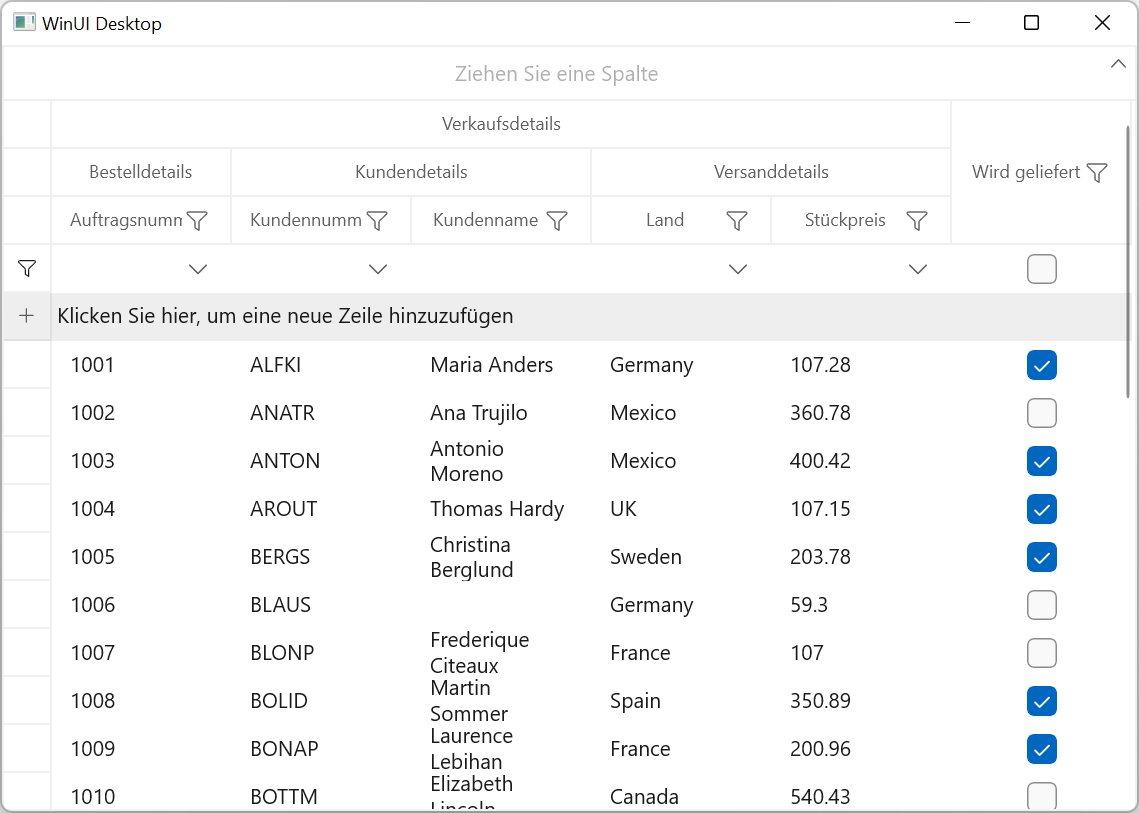
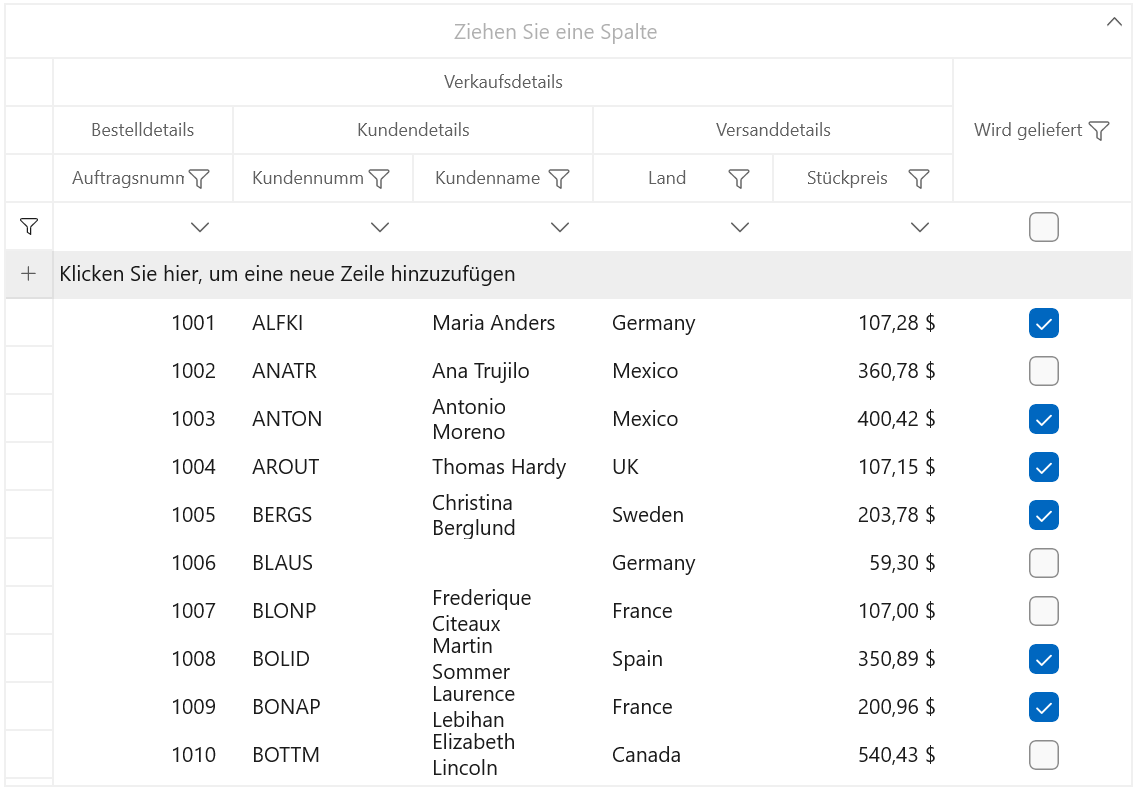
WINUI-2387 - Localization UG review concerns changes committed.

diff --git a/MainWindow.xaml b/MainWindow.xaml
@@ -17,6 +17,9 @@
         <Grid.DataContext>
             <local:ViewModel/>
         </Grid.DataContext>
+        <Grid.Resources>
+            <local:ViewModel x:Key="viewModel"/>
+        </Grid.Resources>
 
         <dataGrid:SfDataGrid x:Name="datagrid" 
                          AutoGenerateColumns="False"
@@ -34,11 +37,11 @@
                          SelectionMode="Single"
                          ItemsSource="{Binding Orders}">
             <dataGrid:SfDataGrid.Columns>
-                <dataGrid:GridTextColumn HeaderText="Auftragsnummer" MappingName="OrderID" />
+                <dataGrid:GridNumericColumn HeaderText="Auftragsnummer" MappingName="OrderID" />
                 <dataGrid:GridTextColumn HeaderText="Kundennummer" MappingName="CustomerID" ImmediateUpdateColumnFilter="True" />
                 <dataGrid:GridTextColumn HeaderText="Kundenname" MappingName="CustomerName" />
                 <dataGrid:GridTextColumn HeaderText="Land" MappingName="Country" />
-                <dataGrid:GridTextColumn HeaderText="Stückpreis" MappingName="UnitPrice" />
+                <dataGrid:GridNumericColumn HeaderText="Stückpreis" MappingName="UnitPrice" NumberFormatter="{Binding SystemCurrency,Source={StaticResource viewModel}}"/>
                 <dataGrid:GridCheckBoxColumn MappingName="IsDelivered" HeaderText="Wird geliefert" />
             </dataGrid:SfDataGrid.Columns>
 

diff --git a/ViewModel/ViewModel.cs b/ViewModel/ViewModel.cs
@@ -21,16 +21,9 @@ namespace Localization
             get { return _orders; }
             set { _orders = value; }
         }
-        private ObservableCollection<OrderInfo> _orders1;
-        public ObservableCollection<OrderInfo> Orders1
-        {
-            get { return _orders1; }
-            set { _orders1 = value; }
-        }
         public ViewModel()
         {
             _orders = new ObservableCollection<OrderInfo>();
-            _orders1 = new ObservableCollection<OrderInfo>();
             this.GenerateOrders();
         }
 
@@ -68,44 +61,6 @@ namespace Localization
         {
             if (PropertyChanged != null)
                 PropertyChanged(this, new PropertyChangedEventArgs(PropertyName));
-        }
-    }
-
-    public class TableSummaryRowConverter : IValueConverter
-    {
-        public object Convert(object value, Type targetType, object parameter, string language)
-        {
-
-            var data = value != null ? value as SummaryRecordEntry : null;
-            if (data != null)
-            {
-                SfDataGrid dataGrid = (SfDataGrid)parameter;
-                var unitPrice = SummaryCreator.GetSummaryDisplayText(data, "UnitPrice", dataGrid.View);
-                var count = SummaryCreator.GetSummaryDisplayText(data, "OrderID", dataGrid.View);
-
-                return "Total Price : " + unitPrice.ToString() + " for " + count.ToString() + " Products ";
-            }
-
-            return null;
-        }
-
-        public object ConvertBack(object value, Type targetType, object parameter, string language)
-        {
-            throw new NotImplementedException();
-        }
-    }
-    public class UnitpriceConverter : IValueConverter
-    {
-        public object Convert(object value, Type targetType, object parameter, string language)
-        {
-            //var unitprice = (int)value;
-
-            return value;
-        }
-
-        public object ConvertBack(object value, Type targetType, object parameter, string language)
-        {
-            throw new NotImplementedException();
         }
     }
 

diff --git a/Model/Model.cs b/Model/Model.cs
@@ -19,7 +19,6 @@ namespace Localization
         string customerName;
         double? unitPrice;
         bool isDelivered;
-        private ObservableCollection<ProductInfo> productDetails;
 
         [Display(Name = "Order ID")]
         public int OrderID
@@ -87,14 +86,6 @@ namespace Localization
             }
         }
 
-        public ObservableCollection<ProductInfo> ProductDetails
-        {
-            get { return productDetails; }
-            set { productDetails = value;
-                OnPropertyChanged("ProductDetails");
-            }
-        }
-
         private List<string> errors = new List<string>();
 
         public event EventHandler<DataErrorsChangedEventArgs> ErrorsChanged;
@@ -107,7 +98,6 @@ namespace Localization
 
         public bool HasErrors
         {
-            // get { return !emailRegex.IsMatch(this.EMail); }
             get
             {
                 if (this.OrderID == 1003 || this.OrderID == 1004)
